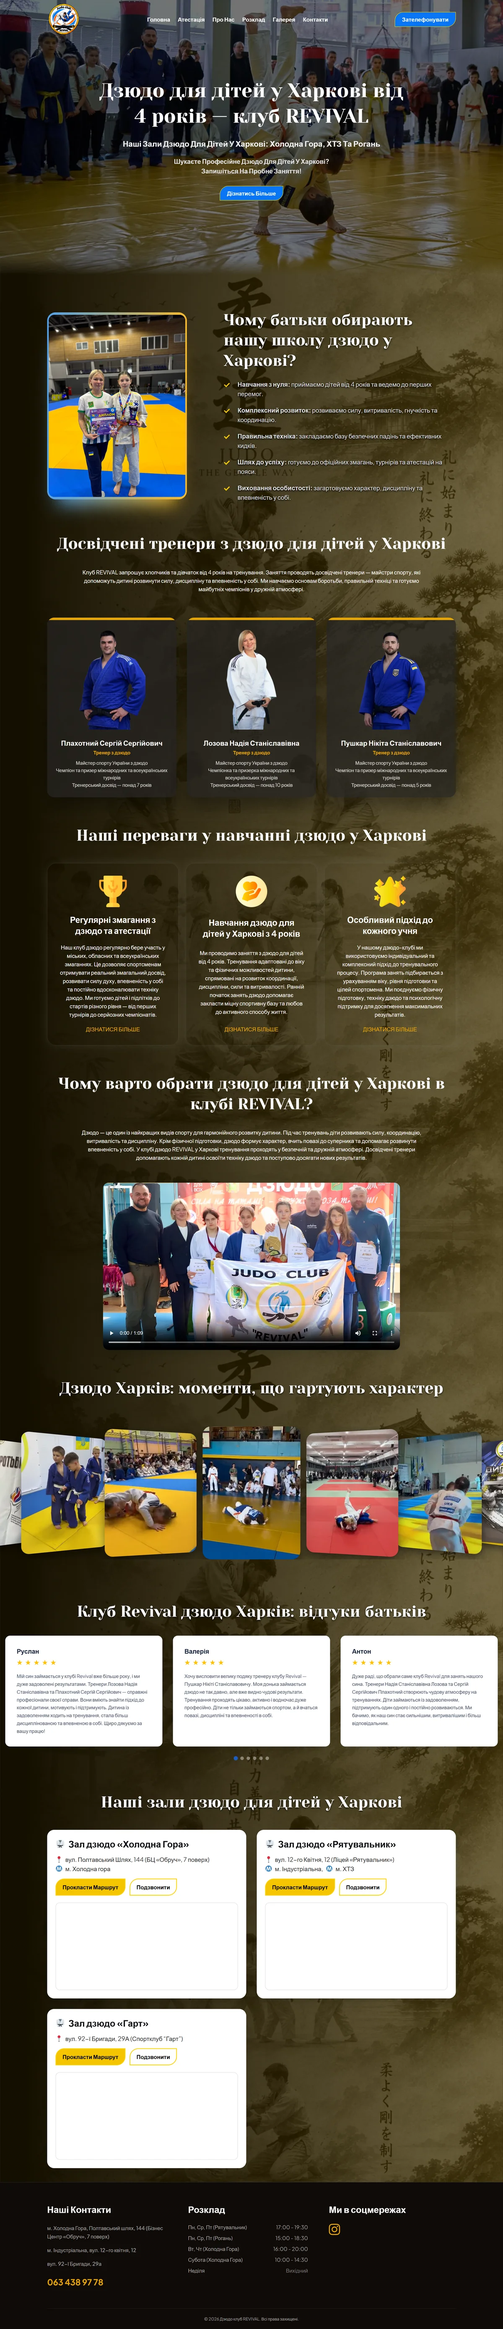
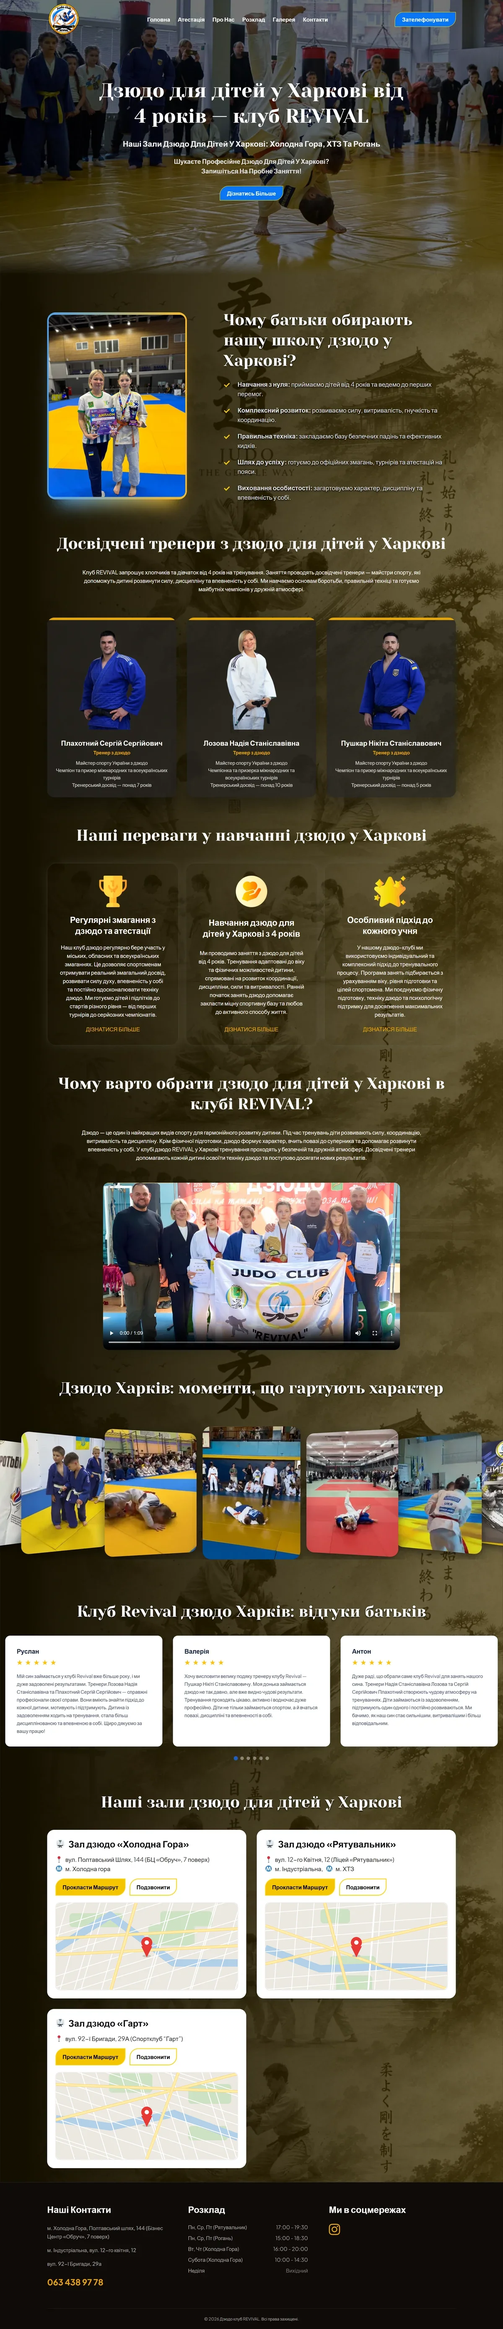
Privacy page, form bot protection, analytics hooks, content fixes
- Add privacy policy page in uk/ru/en, linked from the form and footer
- Form: client-side honeypot and timing check, 60s resubmit cooldown,
  contact format validation, field length limits
- Encode email in markup against scrapers; drop it from JSON-LD
- Optional GA4 (site.gaId) with contact_click and generate_lead events
- noindex and Disallow robots while no domain is configured
- Stats 25+ -> 10+, unify lead form tags, reword "no plugins" claim
- Remove meta keywords

Changed region(s): [[0.0925, 0.8109, 0.4933, 0.9356], [0.5242, 0.8109, 0.8942, 0.8733]]

diff --git a/src/i18n/uk.ts b/src/i18n/uk.ts
@@ -5,19 +5,7 @@ const uk: Dict = {
   meta: {
     title: 'Створення сайтів у Харкові під ключ | Ruban Web Studio',
     description:
-      'Створення лендінгів, сайтів-візиток і корпоративних сайтів у Харкові та по всій Україні. Швидко, з адаптацією під телефон і SEO. 25+ реалізованих проєктів.',
-    // Ключові запити, під які написані тексти цієї мови
-    keywords: [
-      'створення сайтів Харків',
-      'розробка сайтів',
-      'сайт під ключ',
-      'замовити лендінг',
-      'створення лендінгу',
-      'сайт-візитка',
-      'корпоративний сайт',
-      'веб-розробник Харків',
-      'сайт на WordPress',
-    ],
+      'Створення лендінгів, сайтів-візиток і корпоративних сайтів у Харкові та по всій Україні. Швидко, з адаптацією під телефон і SEO. 10+ реалізованих проєктів.',
   },
   city: 'Харків',
   nav: {
@@ -44,9 +32,9 @@ const uk: Dict = {
     viewWork: 'Дивитись роботи',
     chip: 'Реальна робота',
   },
-  // «25+» і «2 роки»: це ваші дані. Ставте тільки те, що готові підтвердити клієнту.
+  // «10+» і «2 роки»: це ваші дані. Ставте тільки те, що готові підтвердити клієнту.
   stats: [
-    { value: '25+', unit: 'сайтів', label: 'запущено для клієнтів' },
+    { value: '10+', unit: 'сайтів', label: 'запущено для клієнтів' },
     { value: '2', unit: 'роки', label: 'розробки на WordPress' },
     { value: '3–5', unit: 'днів', label: 'до запуску лендінгу' },
     { value: '100%', unit: '', label: 'адаптація під телефон' },
@@ -85,13 +73,13 @@ const uk: Dict = {
         short: 'Косметологічна клініка, Нью-Йорк',
         type: 'Багатосторінковий сайт на WordPress',
         description: 'Понад 30 процедур у семи категоріях, дві локації, галерея «до / після» та форма безкоштовної консультації.',
-        tags: ['WordPress', 'Elementor', 'Лідогенерація'],
+        tags: ['WordPress', 'Elementor', 'Форма-заявка'],
       },
       carwrapping: {
         short: 'Студія оклеювання авто, Арізона',
         type: 'Сайт послуг на WordPress',
         description: 'Сторінки під кожну послугу, ціни, галерея робіт і форма розрахунку вартості для заявок.',
-        tags: ['WordPress', 'SEO', 'Форма заявки'],
+        tags: ['WordPress', 'SEO', 'Форма-заявка'],
       },
       pawn: {
         short: 'Мережа ломбардів, Техас',
@@ -180,7 +168,7 @@ const uk: Dict = {
     ],
     points: [
       { title: 'Напряму, без менеджерів', text: 'Ви спілкуєтесь із тим, хто робить сайт. Питання вирішуються за хвилини, а не через ланцюжок людей.' },
-      { title: 'Код вручну, без зайвих плагінів', text: 'Сайт не гальмує і не ламається після оновлень: у ньому немає нічого зайвого.' },
+      { title: 'Нічого зайвого', text: 'Ставлю лише ті плагіни й інструменти, які справді потрібні, тож сайт не гальмує і не ламається після оновлень.' },
       { title: 'Чіткі терміни та ціна', text: 'Вартість і термін фіксуємо до старту. Показую проміжний результат, щоб не було сюрпризів.' },
       { title: 'Сайт повністю ваш', text: 'Домен, хостинг і доступи оформлені на вас. Після запуску допомагаю з правками.' },
     ],
@@ -212,12 +200,15 @@ const uk: Dict = {
       namePh: 'Як до вас звертатись',
       contact: 'Telegram або телефон',
       contactPh: '@username або +380…',
+      contactHint: 'Вкажіть Telegram (@username), телефон або email',
       project: 'Що потрібно',
       other: 'Інше / не знаю',
       message: 'Коротко про задачу',
       messagePh: 'Необов’язково',
       submit: 'Надіслати заявку',
       consent: 'Натискаючи кнопку, ви погоджуєтесь на обробку даних для зв’язку з вами.',
+      privacyLink: 'Політика конфіденційності',
+      wait: 'Заявку вже надіслано. Якщо потрібно щось додати, напишіть у Telegram.',
       sending: 'Надсилаю…',
       success: 'Дякую! Заявку отримано, відповім найближчим часом.',
       error: 'Не вдалося надіслати. Напишіть, будь ласка, у Telegram.',
@@ -233,6 +224,24 @@ const uk: Dict = {
     worldwide: 'Працюю з клієнтами по всій Україні та за кордоном.',
     rights: 'Усі права захищені.',
     up: 'Нагору',
+    privacy: 'Політика конфіденційності',
+  },
+  privacy: {
+    title: 'Політика конфіденційності',
+    description: 'Які дані збирає сайт Ruban Web Studio, навіщо вони потрібні і як їх видалити.',
+    updated: 'Оновлено: листопад 2026',
+    intro: 'Тут коротко і без юридичних хитрощів описано, які дані потрапляють до мене через цей сайт і що з ними відбувається.',
+    sections: [
+      { title: 'Які дані я отримую', text: 'Тільки те, що ви самі вказуєте у формі заявки: ім’я, контакт для зв’язку (Telegram, телефон або email), тип проєкту та опис задачі. Якщо ви пишете в Telegram, телефонуєте чи надсилаєте email, я бачу дані, які передає цей сервіс.' },
+      { title: 'Навіщо', text: 'Щоб відповісти на вашу заявку, уточнити задачу та підготувати пропозицію. Я не надсилаю розсилок і не передаю ваші дані третім особам для реклами.' },
+      { title: 'Як передається заявка', text: 'Форма надсилається через сервіс Web3Forms, який пересилає заявку мені на пошту. Сервіс отримує ці дані лише для доставки листа.' },
+      { title: 'Скільки зберігаються', text: 'Листування зберігається, доки ми працюємо над проєктом і підтримуємо сайт. За вашим запитом я видалю ваші дані.' },
+      { title: 'Що зберігається у браузері', text: 'Після відправки заявки браузер запам’ятовує час відправки, щоб захистити форму від повторних і автоматичних заявок. Це не використовується для відстеження.' },
+    ],
+    analytics: { title: 'Аналітика', text: 'Сайт використовує Google Analytics, щоб рахувати відвідування і бачити, які розділи корисні. Дані знеособлені. Ви можете заблокувати аналітику в налаштуваннях браузера або за допомогою блокувальника реклами.' },
+    contactTitle: 'Зв’язок',
+    contactText: 'Щоб дізнатися, які ваші дані в мене є, виправити чи видалити їх, напишіть мені будь-яким способом:',
+    back: '← На головну',
   },
 };
 

diff --git a/src/i18n/ru.ts b/src/i18n/ru.ts
@@ -5,18 +5,7 @@ const ru: Dict = {
   meta: {
     title: 'Создание сайтов в Харькове под ключ | Ruban Web Studio',
     description:
-      'Создание лендингов, сайтов-визиток и корпоративных сайтов в Харькове и по всей Украине. Быстро, с адаптацией под телефон и SEO. 25+ реализованных проектов.',
-    keywords: [
-      'создание сайтов Харьков',
-      'разработка сайтов',
-      'сайт под ключ',
-      'заказать лендинг',
-      'создание лендинга',
-      'сайт-визитка',
-      'корпоративный сайт',
-      'веб-разработчик Харьков',
-      'сайт на WordPress',
-    ],
+      'Создание лендингов, сайтов-визиток и корпоративных сайтов в Харькове и по всей Украине. Быстро, с адаптацией под телефон и SEO. 10+ реализованных проектов.',
   },
   city: 'Харьков',
   nav: {
@@ -44,7 +33,7 @@ const ru: Dict = {
     chip: 'Реальная работа',
   },
   stats: [
-    { value: '25+', unit: 'сайтов', label: 'запущено для клиентов' },
+    { value: '10+', unit: 'сайтов', label: 'запущено для клиентов' },
     { value: '2', unit: 'года', label: 'разработки на WordPress' },
     { value: '3–5', unit: 'дней', label: 'до запуска лендинга' },
     { value: '100%', unit: '', label: 'адаптация под телефон' },
@@ -83,13 +72,13 @@ const ru: Dict = {
         short: 'Косметологическая клиника, Нью-Йорк',
         type: 'Многостраничный сайт на WordPress',
         description: 'Более 30 процедур в семи категориях, две локации, галерея «до / после» и форма бесплатной консультации.',
-        tags: ['WordPress', 'Elementor', 'Лидогенерация'],
+        tags: ['WordPress', 'Elementor', 'Форма-заявка'],
       },
       carwrapping: {
         short: 'Студия оклейки авто, Аризона',
         type: 'Сайт услуг на WordPress',
         description: 'Страницы под каждую услугу, цены, галерея работ и форма расчёта стоимости для заявок.',
-        tags: ['WordPress', 'SEO', 'Форма заявки'],
+        tags: ['WordPress', 'SEO', 'Форма-заявка'],
       },
       pawn: {
         short: 'Сеть ломбардов, Техас',
@@ -175,7 +164,7 @@ const ru: Dict = {
     ],
     points: [
       { title: 'Напрямую, без менеджеров', text: 'Вы общаетесь с тем, кто делает сайт. Вопросы решаются за минуты, а не через цепочку людей.' },
-      { title: 'Код вручную, без лишних плагинов', text: 'Сайт не тормозит и не ломается после обновлений: в нём нет ничего лишнего.' },
+      { title: 'Ничего лишнего', text: 'Ставлю только те плагины и инструменты, которые действительно нужны, поэтому сайт не тормозит и не ломается после обновлений.' },
       { title: 'Чёткие сроки и цена', text: 'Стоимость и срок фиксируем до старта. Показываю промежуточный результат, чтобы не было сюрпризов.' },
       { title: 'Сайт полностью ваш', text: 'Домен, хостинг и доступы оформлены на вас. После запуска помогаю с правками.' },
     ],
@@ -204,12 +193,15 @@ const ru: Dict = {
       namePh: 'Как к вам обращаться',
       contact: 'Telegram или телефон',
       contactPh: '@username или +380…',
+      contactHint: 'Укажите Telegram (@username), телефон или email',
       project: 'Что нужно',
       other: 'Другое / не знаю',
       message: 'Коротко о задаче',
       messagePh: 'Необязательно',
       submit: 'Отправить заявку',
       consent: 'Нажимая кнопку, вы соглашаетесь на обработку данных для связи с вами.',
+      privacyLink: 'Политика конфиденциальности',
+      wait: 'Заявка уже отправлена. Если нужно что-то добавить, напишите в Telegram.',
       sending: 'Отправляю…',
       success: 'Спасибо! Заявка получена, отвечу в ближайшее время.',
       error: 'Не удалось отправить. Напишите, пожалуйста, в Telegram.',
@@ -225,6 +217,24 @@ const ru: Dict = {
     worldwide: 'Работаю с клиентами по всей Украине и за рубежом.',
     rights: 'Все права защищены.',
     up: 'Наверх',
+    privacy: 'Политика конфиденциальности',
+  },
+  privacy: {
+    title: 'Политика конфиденциальности',
+    description: 'Какие данные собирает сайт Ruban Web Studio, зачем они нужны и как их удалить.',
+    updated: 'Обновлено: ноябрь 2026',
+    intro: 'Здесь коротко и без юридических уловок описано, какие данные попадают ко мне через этот сайт и что с ними происходит.',
+    sections: [
+      { title: 'Какие данные я получаю', text: 'Только то, что вы сами указываете в форме заявки: имя, контакт для связи (Telegram, телефон или email), тип проекта и описание задачи. Если вы пишете в Telegram, звоните или отправляете email, я вижу данные, которые передаёт этот сервис.' },
+      { title: 'Зачем', text: 'Чтобы ответить на вашу заявку, уточнить задачу и подготовить предложение. Я не делаю рассылок и не передаю ваши данные третьим лицам для рекламы.' },
+      { title: 'Как передаётся заявка', text: 'Форма отправляется через сервис Web3Forms, который пересылает заявку мне на почту. Сервис получает эти данные только для доставки письма.' },
+      { title: 'Сколько хранятся', text: 'Переписка хранится, пока мы работаем над проектом и поддерживаем сайт. По вашему запросу я удалю ваши данные.' },
+      { title: 'Что хранится в браузере', text: 'После отправки заявки браузер запоминает время отправки, чтобы защитить форму от повторных и автоматических заявок. Это не используется для отслеживания.' },
+    ],
+    analytics: { title: 'Аналитика', text: 'Сайт использует Google Analytics, чтобы считать посещения и видеть, какие разделы полезны. Данные обезличены. Вы можете заблокировать аналитику в настройках браузера или с помощью блокировщика рекламы.' },
+    contactTitle: 'Связь',
+    contactText: 'Чтобы узнать, какие ваши данные у меня есть, исправить или удалить их, напишите мне любым способом:',
+    back: '← На главную',
   },
 };
 

diff --git a/src/i18n/en.ts b/src/i18n/en.ts
@@ -5,17 +5,7 @@ const en: Dict = {
   meta: {
     title: 'Freelance Web Developer for Small Business Websites | Ruban Web Studio',
     description:
-      'Landing pages, small business websites and corporate sites built turnkey on WordPress or custom code. Fast, mobile-friendly and SEO-ready. 25+ projects for clients in the US and Ukraine.',
-    keywords: [
-      'freelance web developer',
-      'website development',
-      'small business website',
-      'landing page development',
-      'WordPress developer',
-      'custom website design',
-      'web developer Ukraine',
-      'affordable website for small business',
-    ],
+      'Landing pages, small business websites and corporate sites built turnkey on WordPress or custom code. Fast, mobile-friendly and SEO-ready. 10+ projects for clients in the US and Ukraine.',
   },
   city: 'Kharkiv, Ukraine',
   nav: {
@@ -43,7 +33,7 @@ const en: Dict = {
     chip: 'Real project',
   },
   stats: [
-    { value: '25+', unit: 'sites', label: 'launched for clients' },
+    { value: '10+', unit: 'sites', label: 'launched for clients' },
     { value: '2', unit: 'years', label: 'of WordPress development' },
     { value: '3–5', unit: 'days', label: 'to launch a landing page' },
     { value: '100%', unit: '', label: 'mobile-friendly' },
@@ -82,7 +72,7 @@ const en: Dict = {
         short: 'Skin care clinic, New York',
         type: 'Multi-page website on WordPress',
         description: '30+ treatments across seven categories, two locations, a before/after gallery and a free consultation form.',
-        tags: ['WordPress', 'Elementor', 'Lead generation'],
+        tags: ['WordPress', 'Elementor', 'Lead form'],
       },
       carwrapping: {
         short: 'Car wrap studio, Arizona',
@@ -174,7 +164,7 @@ const en: Dict = {
     ],
     points: [
       { title: 'Direct, no account managers', text: 'You talk to the person who builds your site. Questions get answered in minutes, not passed down a chain.' },
-      { title: 'Hand-written code, no bloat', text: 'The site stays fast and does not break after updates, because there is nothing unnecessary in it.' },
+      { title: 'No bloat', text: 'I only add the plugins and tools a site actually needs, so it stays fast and does not break after updates.' },
       { title: 'Clear timeline and price', text: 'We fix the price and timeline before we start. I share progress along the way, so there are no surprises.' },
       { title: 'The site is fully yours', text: 'Domain, hosting and all access are registered in your name. I help with edits after launch.' },
     ],
@@ -203,12 +193,15 @@ const en: Dict = {
       namePh: 'How should I address you',
       contact: 'Telegram or phone',
       contactPh: '@username or phone number',
+      contactHint: 'Enter your Telegram (@username), phone number or email',
       project: 'What you need',
       other: 'Something else / not sure',
       message: 'About your project',
       messagePh: 'Optional',
       submit: 'Send request',
       consent: 'By clicking the button, you agree to the processing of your data so I can contact you.',
+      privacyLink: 'Privacy policy',
+      wait: 'Your request has already been sent. If you want to add something, message me on Telegram.',
       sending: 'Sending…',
       success: 'Thank you! Your request has been received. I’ll get back to you shortly.',
       error: 'Something went wrong. Please message me on Telegram.',
@@ -224,6 +217,24 @@ const en: Dict = {
     worldwide: 'I work with clients across Ukraine and abroad.',
     rights: 'All rights reserved.',
     up: 'Back to top',
+    privacy: 'Privacy policy',
+  },
+  privacy: {
+    title: 'Privacy policy',
+    description: 'What data the Ruban Web Studio website collects, why, and how to have it deleted.',
+    updated: 'Updated: November 2026',
+    intro: 'A short, plain-language description of what data reaches me through this website and what happens to it.',
+    sections: [
+      { title: 'What I receive', text: 'Only what you enter in the contact form: your name, a way to reach you (Telegram, phone or email), the project type and a description of the task. If you message me on Telegram, call or email, I see the details that service shares.' },
+      { title: 'Why', text: 'To reply to your request, clarify the task and prepare a quote. I do not send newsletters and do not share your data with third parties for advertising.' },
+      { title: 'How the form is delivered', text: 'The form is sent through Web3Forms, which forwards the request to my email. The service receives this data only to deliver the message.' },
+      { title: 'How long it is kept', text: 'Our correspondence is kept while we work on the project and maintain the site. I will delete your data on request.' },
+      { title: 'What your browser stores', text: 'After you submit the form, your browser remembers when it was sent, to protect the form from repeated and automated submissions. It is not used for tracking.' },
+    ],
+    analytics: { title: 'Analytics', text: 'The site uses Google Analytics to count visits and see which sections are useful. The data is anonymized. You can block analytics in your browser settings or with an ad blocker.' },
+    contactTitle: 'Contact',
+    contactText: 'To find out what data I have about you, correct it or delete it, contact me in any way:',
+    back: '← Back to home',
   },
 };
 

diff --git a/src/i18n/types.ts b/src/i18n/types.ts
@@ -21,11 +21,10 @@ export interface ProjectText {
 }
 
 export interface Dict {
-  /** SEO: заголовок вкладки, опис для пошуку та ключові запити цієї мови */
+  /** SEO: заголовок вкладки, опис для пошуку */
   meta: {
     title: string;
     description: string;
-    keywords: string[];
   };
   city: string;
   nav: {
@@ -106,12 +105,17 @@ export interface Dict {
       namePh: string;
       contact: string;
       contactPh: string;
+      /** підказка, якщо контакт введено в незрозумілому форматі */
+      contactHint: string;
       project: string;
       other: string;
       message: string;
       messagePh: string;
       submit: string;
       consent: string;
+      privacyLink: string;
+      /** повторна заявка раніше ніж за хвилину */
+      wait: string;
       sending: string;
       success: string;
       error: string;
@@ -127,5 +131,18 @@ export interface Dict {
     worldwide: string;
     rights: string;
     up: string;
+    privacy: string;
+  };
+  privacy: {
+    title: string;
+    description: string;
+    updated: string;
+    intro: string;
+    sections: { title: string; text: string }[];
+    /** показується, тільки якщо підключено Google Analytics (site.gaId) */
+    analytics: { title: string; text: string };
+    contactTitle: string;
+    contactText: string;
+    back: string;
   };
 }

diff --git a/src/data/site.ts b/src/data/site.ts
@@ -5,8 +5,16 @@ export const site = {
   logo: '/portfolio/logo.webp',
   telegram: `https://t.me/${telegramUser}`,
   telegramHandle: `@${telegramUser}`,
+  // TODO: замінити на окрему пошту студії. Після заміни створіть новий formKey на web3forms.com на цю адресу.
   email: 'anton-ruban@ukr.net',
   phone: '+380958702674',
   phoneLabel: '+38 (095) 870-26-74',
+  /** ключ Web3Forms: заявки з форми приходять на пошту, на яку він створений */
   formKey: '13b43453-3360-4747-86a1-3cd3b388a733',
+  /** ID Google Analytics 4 (вигляд G-XXXXXXXXXX). Порожньо: аналітика не підключається */
+  gaId: '',
 };
+
+/** Пошта для сторінки: закодована (розкодовує скрипт у Layout) і запасний текст для тих, у кого вимкнено JS */
+export const emailEncoded = btoa(site.email);
+export const emailMasked = site.email.replace('@', ' [at] ');

diff --git a/src/pages/robots.txt.ts b/src/pages/robots.txt.ts
@@ -1,6 +1,11 @@
 import type { APIRoute } from 'astro';
 
+// Поки в astro.config не задано домен (site), закриваємо сайт від пошуковиків,
+// щоб у видачу не потрапила тимчасова адреса.
 export const GET: APIRoute = ({ site, url }) =>
-  new Response(`User-agent: *\nAllow: /\n\nSitemap: ${new URL('/sitemap.xml', site ?? url).href}\n`, {
-    headers: { 'Content-Type': 'text/plain; charset=utf-8' },
-  });
+  new Response(
+    site
+      ? `User-agent: *\nAllow: /\n\nSitemap: ${new URL('/sitemap.xml', site).href}\n`
+      : `User-agent: *\nDisallow: /\n`,
+    { headers: { 'Content-Type': 'text/plain; charset=utf-8' } }
+  );

diff --git a/src/pages/sitemap.xml.ts b/src/pages/sitemap.xml.ts
@@ -3,7 +3,7 @@ import { locales, defaultLocale, localizePath } from '../i18n';
 
 // Сторінки сайту без префікса мови. Додавайте сюди нові, коли вони з'являться:
 // кожна автоматично потрапить у sitemap усіма мовами (/, /ru/, /en/).
-const pages = ['/'];
+const pages = ['/', '/privacy/'];
 
 export const GET: APIRoute = ({ site, url }) => {
   const abs = (path: string) => new URL(path, site ?? url).href;
